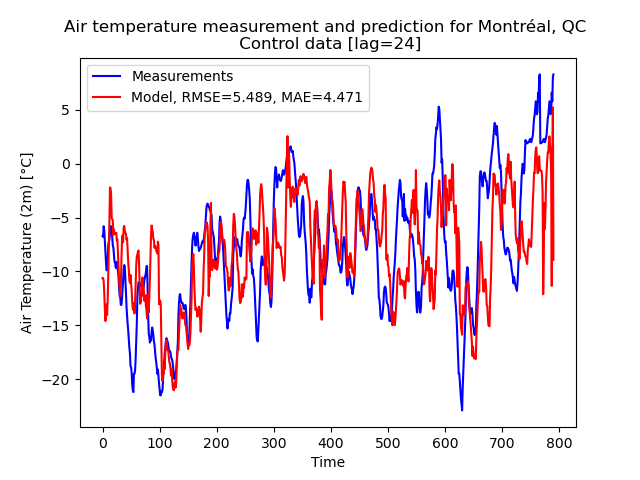
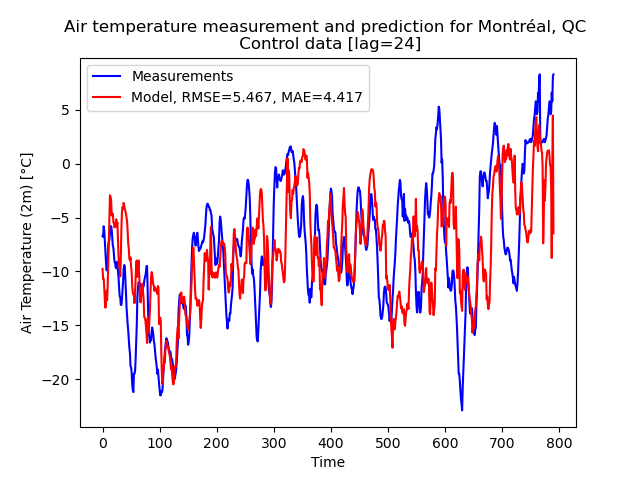
new results

diff --git a/code/project_paul.py b/code/project_paul.py
@@ -101,7 +101,7 @@ def preprocess(df: pd.DataFrame) -> pd.DataFrame:
     doy = df.index.dayofyear.to_numpy()
     omega_y = 2 * math.pi / 365.25
     # TODO: Student can add whatever you like to the dataset here
-    
+    df["cst"] = np.ones(df.shape[0])
     return df
 
 # TODO: Students you might find this function useful
@@ -129,6 +129,10 @@ def split_train_val(data: pd.DataFrame, val_hours: int) -> Tuple[pd.DataFrame, p
         raise ValueError("Not enough samples for requested validation window.")
     return data.iloc[:-val_hours].copy(), data.iloc[-val_hours:].copy()
 
+def solve_with_svd(A: np.ndarray, b: np.ndarray)->np.ndarray:
+    U, S, Vh = np.linalg.svd(A, full_matrices=False)
+    sigma_inv = np.diag(np.power(S, -1))
+    return Vh.T@sigma_inv@U.T@b
 
 if __name__ == "__main__":
     start_date = "2026-01-01"
@@ -160,7 +164,7 @@ if __name__ == "__main__":
     n = df.shape[0] #get dataframe size
 
     lags = np.array([1, 3, 6, 12, 24, 48])
-    results: dict = {'Scenario':[], 'RMSE (train)':[], 'MAE (train)':[], 'RMSE (control)':[], 'MAE (control)':[], 'RMSE change [%]':[], 'MAE change [%]':[], 'Maximum error (control)':[]} #create results dictionary
+    results: dict = {'Scenario':[], 'RMSE (train)':[], 'MAE (train)':[], 'RMSE (baseline)': [], 'MAE (baseline)': [], 'RMSE (control)':[], 'MAE (control)':[], 'RMSE change [%]':[], 'MAE change [%]':[], 'Maximum error (control)':[]} #create results dictionary
     for lag in lags:
         print(f'Running model for h={lag}h')
         #add lags for Temperature
@@ -183,19 +187,27 @@ if __name__ == "__main__":
         #print(y[0])
         A = params
         #solve the least square problem with SVD
-        U, S, Vh = np.linalg.svd(A, full_matrices=False)
-        sigma_inv = np.diag(np.power(S, -1))
-        x = Vh.T@sigma_inv@U.T@y
+        x = solve_with_svd(A, y)
         #print(x)
         #apply it to the train data
         y_fit = A@x
-        y_fit[0] = y_fit[1]
+        df_train[f'T_pred{lag}'] = y_fit
         #compute errors
         rmse = np.sqrt(np.mean((y_fit - y)**2))
         mae = np.mean(np.abs(y_fit - y))
         #plot results
-        plt.plot(y, label='Measurements', color='blue')
-        plt.plot(y_fit, label=f'Model, RMSE={np.round(rmse, 3)}, MAE={np.round(mae, 3)}', color='red')
+        #plt.plot(y, label='Measurements', color='blue')
+        #plt.plot(y_fit, label=f'Model, RMSE={np.round(rmse, 3)}, MAE={np.round(mae, 3)}', color='red')
+        df_train = add_lags(df_train, f'T_pred{lag}', [lag])
+        if lag > 6:
+            df_train = add_lags(df_train, 'T', [lag])
+        bas = np.asarray(df_train[f'T_lag{lag}'])
+        rmse_bas = np.sqrt(np.mean((y_fit - bas)**2))
+        mae_bas = np.mean(np.abs(y_fit - bas))
+        plt.figure()
+        df_train[f'T'].plot() #measurement
+        df_train[f'T_pred{lag}_lag{lag}'].plot() #prediction
+        df_train[f'T_lag{lag}'].plot() #baseline
         plt.legend()
         plt.ylabel('Air Temperature (2m) [°C]')
         plt.xlabel('Time')
@@ -212,13 +224,13 @@ if __name__ == "__main__":
         #apply model to control data
         y_pred_fit = A_pred@x
         y_pred_fit = y_pred_fit[0:m]
-        y_pred_fit[0] = y_pred_fit[1]
         #compute new error
         rmse_pred = np.sqrt(np.mean((y_pred_fit - y_pred)**2))
         mae_pred = np.mean(np.abs(y_pred_fit - y_pred))
         #plot everything
         plt.plot(y_pred, label='Measurements', color='blue')
         plt.plot(y_pred_fit, label=f'Model, RMSE={np.round(rmse_pred, 3)}, MAE={np.round(mae_pred, 3)}', color='red')
+        #plt.plot(np.asarray(df_control[f'T'])[0:m], label='Baseline', linestyle='--', color='green')
         plt.legend()
         plt.ylabel('Air Temperature (2m) [°C]')
         plt.xlabel('Time')
@@ -229,6 +241,8 @@ if __name__ == "__main__":
         results["Scenario"].append(lag)
         results["RMSE (train)"].append(rmse)
         results["RMSE (control)"].append(rmse_pred)
+        results["RMSE (baseline)"].append(rmse_bas)
+        results["MAE (baseline)"].append(mae_bas)
         results["MAE (train)"].append(mae)
         results["MAE (control)"].append(mae_pred)
         results["RMSE change [%]"].append((rmse_pred-rmse)/rmse*100)
